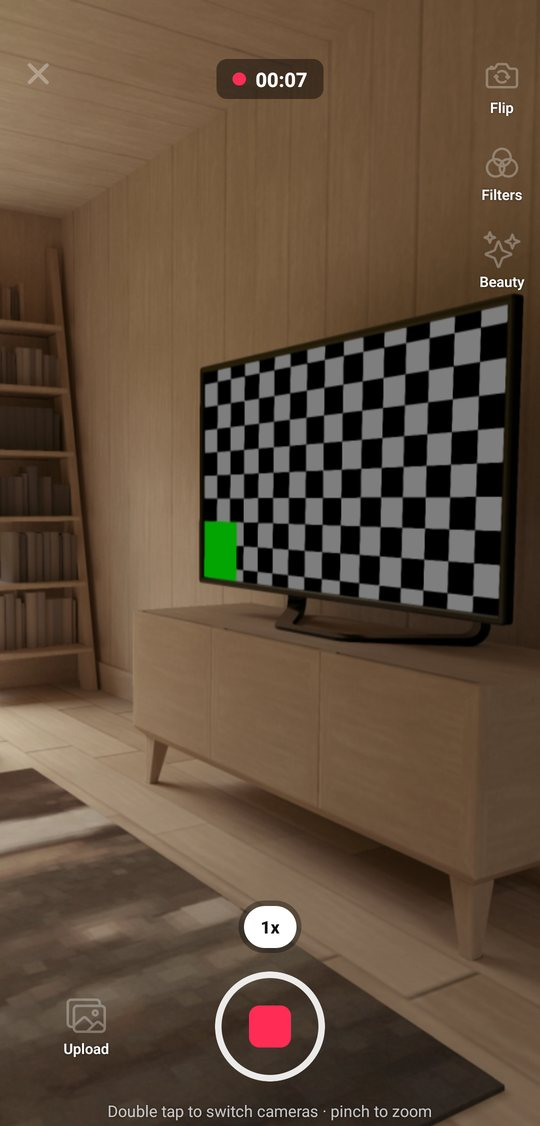
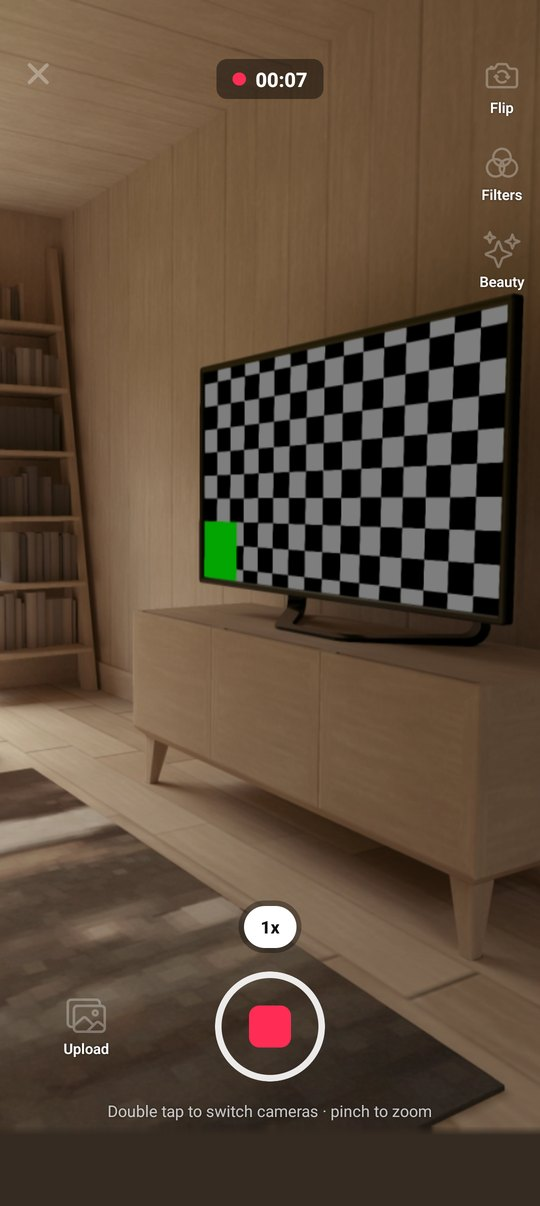
design: onboarding v1b - keep screen controls clear of the phone's rounded corners (padded screenshots, taller frame, shorter fade)

diff --git a/mobile/src/components/OnboardingArt.tsx b/mobile/src/components/OnboardingArt.tsx
@@ -33,8 +33,10 @@ export type ArtKind = 'watch' | 'create' | 'live' | 'chat';
  */
 export const BEZEL = 2;
 export const ART_W = 250;
-export const ART_H = 517;
+export const ART_H = 553;
 const IN_H = ART_H - BEZEL * 2;
+/** The screenshots carry 160 source px of extra background below the real screen, keeping its controls clear of the rounded corners. */
+const LIFT = IN_H * (160 / 2412);
 
 const SHOTS: Record<'en' | 'ar', Record<ArtKind, ImageSourcePropType>> = {
   en: {
@@ -198,7 +200,7 @@ function Sim({ kind }: { kind: ArtKind }) {
       return (
         <>
           <HeartBurst />
-          <RisingHearts style={{ end: 14, bottom: IN_H * 0.2 }} />
+          <RisingHearts style={{ end: 14, bottom: IN_H * 0.2 + LIFT }} />
           <View pointerEvents="none" style={[styles.likeCount, GLASS]}>
             <Ionicons name="heart" size={15} color="#F43F5E" />
             <Text style={styles.chipTxt}>{(likes / 1000).toFixed(1)}K</Text>
@@ -210,9 +212,9 @@ function Sim({ kind }: { kind: ArtKind }) {
     case 'live':
       return (
         <>
-          <RisingHearts style={{ end: 14, bottom: IN_H * 0.14 }} />
+          <RisingHearts style={{ end: 14, bottom: IN_H * 0.14 + LIFT }} />
           <CommentFeed
-            style={{ start: 12, end: 44, bottom: IN_H * 0.15 }}
+            style={{ start: 12, end: 44, bottom: IN_H * 0.15 + LIFT }}
             lines={[
               { who: 'ع', tone: ['#0284C7', '#38BDF8'], text: t('onboarding.mockMsg1') },
               { who: 'س', tone: ['#3B82F6', '#6366F1'], text: t('onboarding.mockMsg2') },
@@ -290,16 +292,16 @@ const styles = StyleSheet.create({
     elevation: 14,
   },
   clip: { flex: 1, borderRadius: 36 - BEZEL, overflow: 'hidden' },
-  fade: { position: 'absolute', start: 0, end: 0, bottom: 0, height: '35%' },
+  fade: { position: 'absolute', start: 0, end: 0, bottom: 0, height: '12%' },
   pill: { borderRadius: 20, paddingHorizontal: 14, paddingVertical: 10, shadowColor: '#000', shadowOpacity: 0.4, shadowRadius: 12, shadowOffset: { width: 0, height: 6 } },
   pillTxt: { color: '#fff', fontSize: 13, fontWeight: '700' },
   chipTxt: { color: '#fff', fontSize: 14, fontWeight: '800' },
   bub: { flexDirection: 'row', alignItems: 'center', gap: 7, backgroundColor: 'rgba(0,0,0,0.55)', borderRadius: 999, paddingVertical: 4, paddingStart: 4, paddingEnd: 12, alignSelf: 'flex-start', marginTop: 6 },
   bubAv: { width: 24, height: 24, borderRadius: 12, alignItems: 'center', justifyContent: 'center' },
   bubTxt: { color: '#fff', fontSize: 13 },
-  likeCount: { position: 'absolute', alignSelf: 'center', bottom: IN_H * 0.2, flexDirection: 'row', alignItems: 'center', gap: 6, borderRadius: 999, paddingHorizontal: 13, paddingVertical: 6 },
+  likeCount: { position: 'absolute', alignSelf: 'center', bottom: IN_H * 0.2 + LIFT, flexDirection: 'row', alignItems: 'center', gap: 6, borderRadius: 999, paddingHorizontal: 13, paddingVertical: 6 },
   rec: { position: 'absolute', alignSelf: 'center', top: IN_H * 0.07 - 14, flexDirection: 'row', alignItems: 'center', gap: 7, backgroundColor: '#F43F5E', borderRadius: 999, paddingHorizontal: 14, paddingVertical: 6 },
   recBlip: { width: 8, height: 8, borderRadius: 4, backgroundColor: '#fff' },
   recTxt: { color: '#fff', fontSize: 16, fontWeight: '800' },
-  typing: { position: 'absolute', start: 14, bottom: IN_H * 0.11, flexDirection: 'row', gap: 5, borderRadius: 999, paddingHorizontal: 14, paddingVertical: 12 },
+  typing: { position: 'absolute', start: 14, bottom: IN_H * 0.11 + LIFT, flexDirection: 'row', gap: 5, borderRadius: 999, paddingHorizontal: 14, paddingVertical: 12 },
 });
